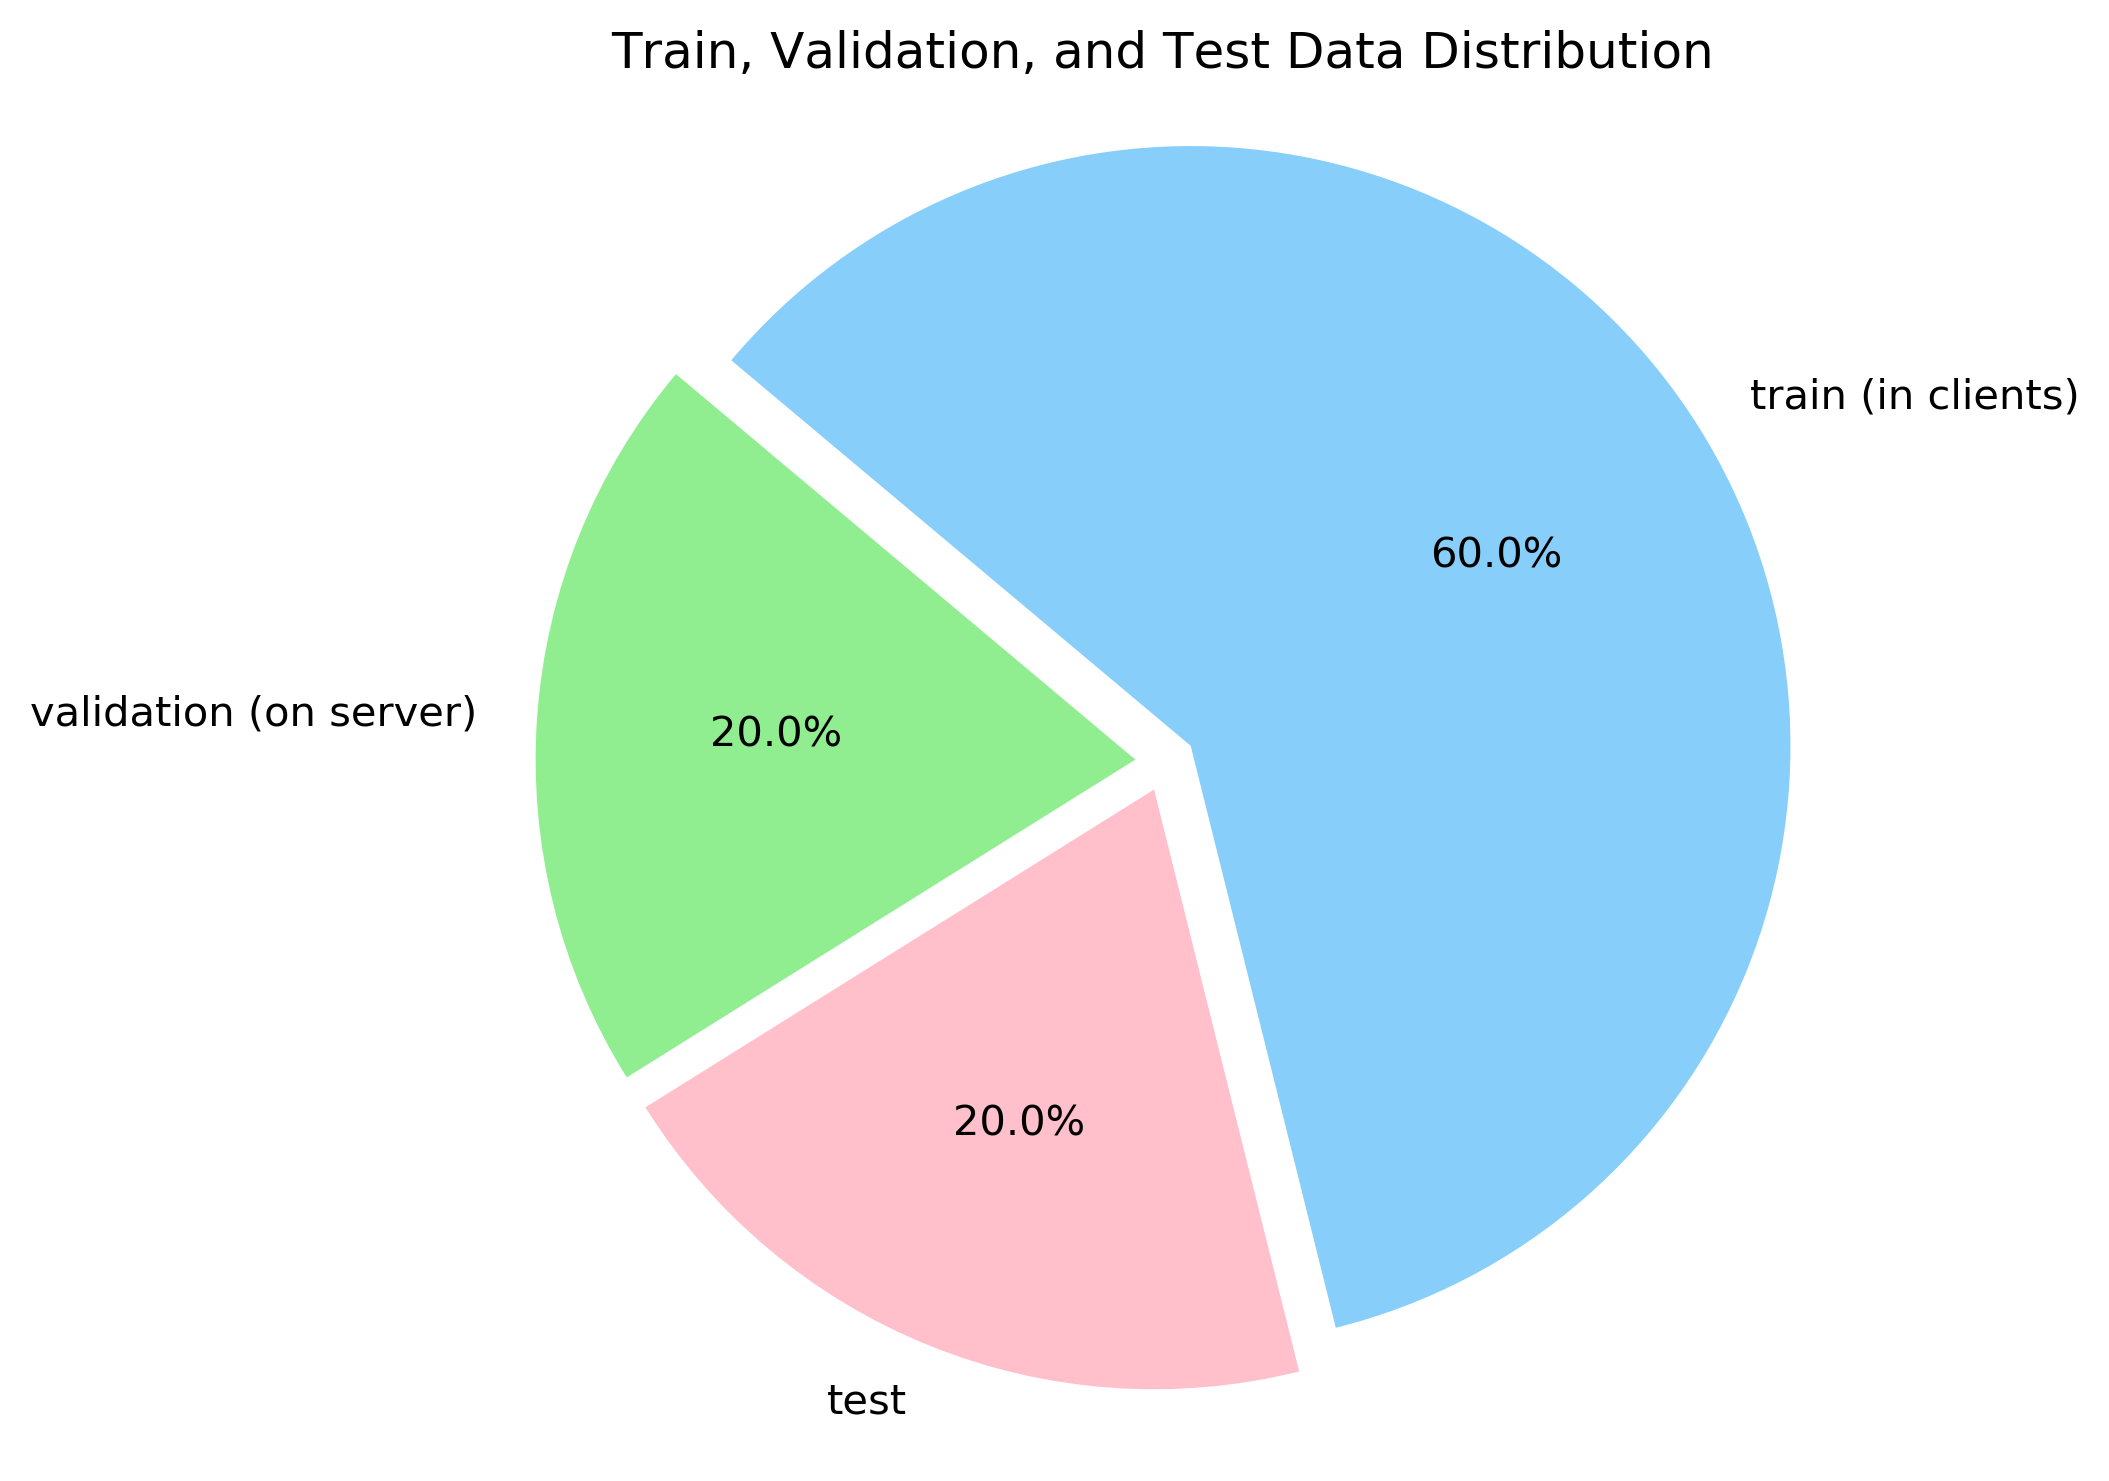
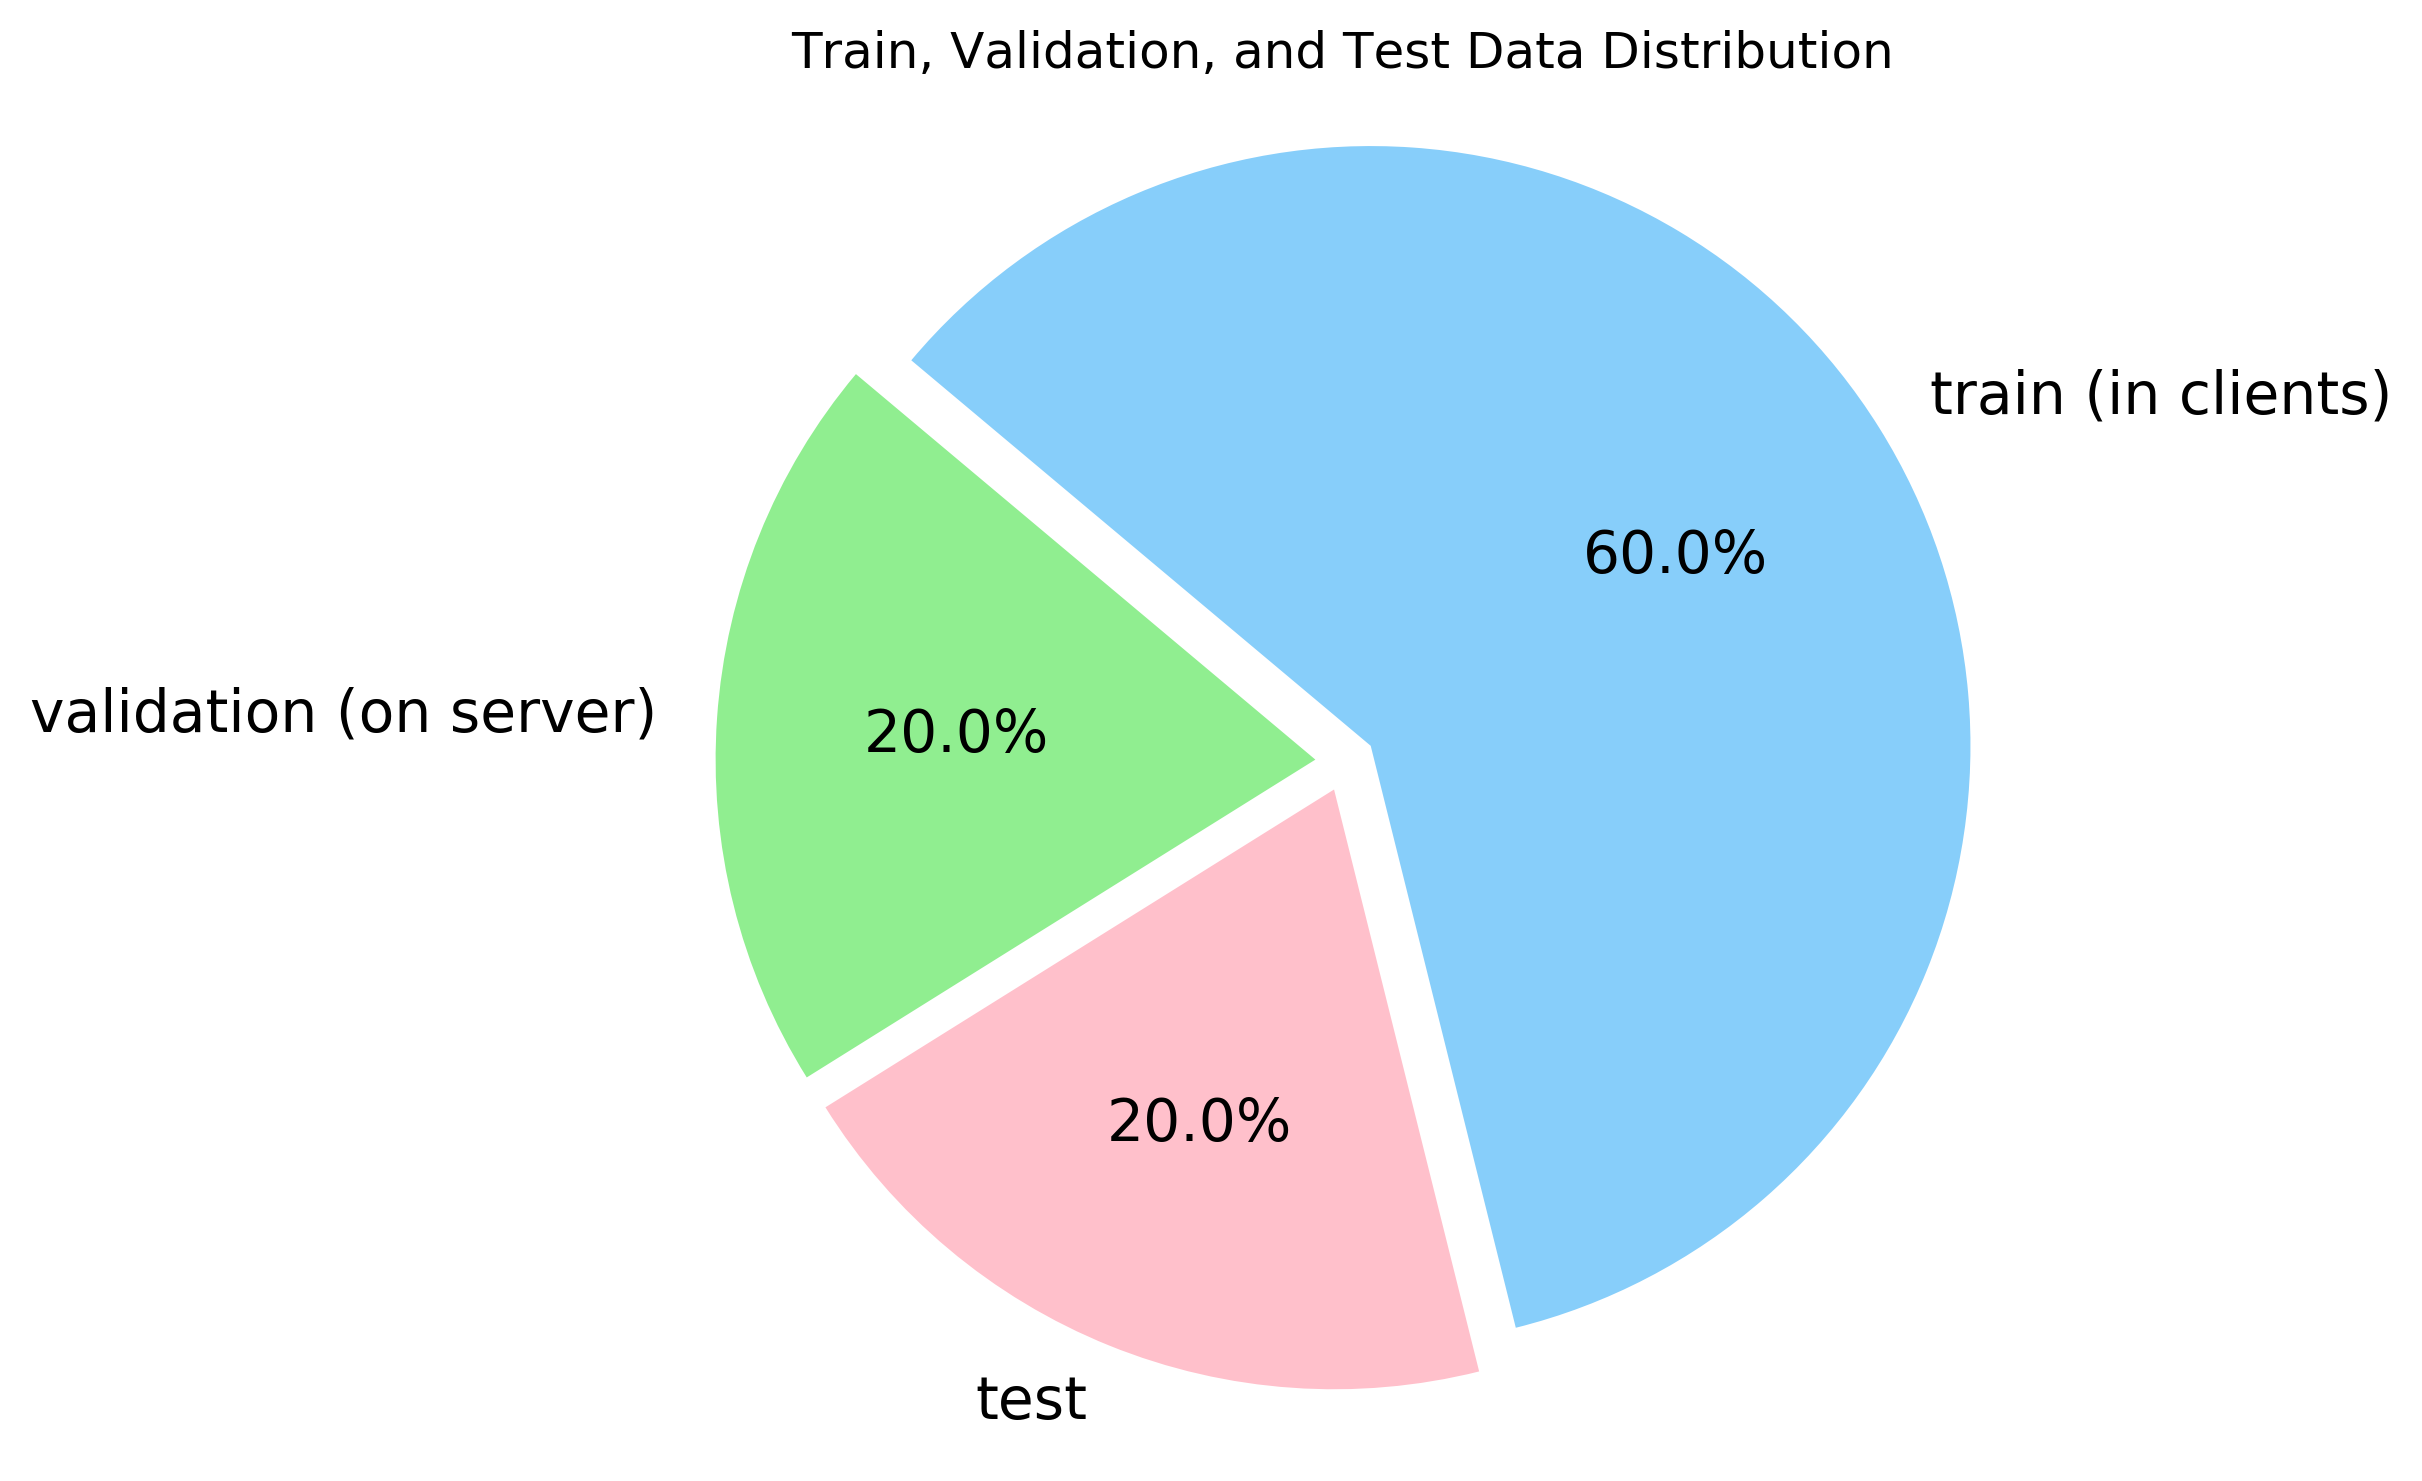
adjust font size in pie chart

diff --git a/dataset.py b/dataset.py
@@ -476,8 +476,14 @@ def plot_pie_distribution():
 
     # Plot
     plt.figure(figsize=(6,6))
-    plt.pie(sizes, explode=explode, labels=labels, colors=colors,
+    patches, texts, autotexts = plt.pie(sizes, explode=explode, labels=labels, colors=colors,
     autopct='%1.1f%%', shadow=False, startangle=140)
+
+    # Increase font size of pie chart labels and autopct
+    for text in texts:
+        text.set_fontsize(14)
+    for autotext in autotexts:
+        autotext.set_fontsize(14)
 
     plt.axis('equal')  # Equal aspect ratio ensures that pie is drawn as a circle.
     plt.title('Train, Validation, and Test Data Distribution')
